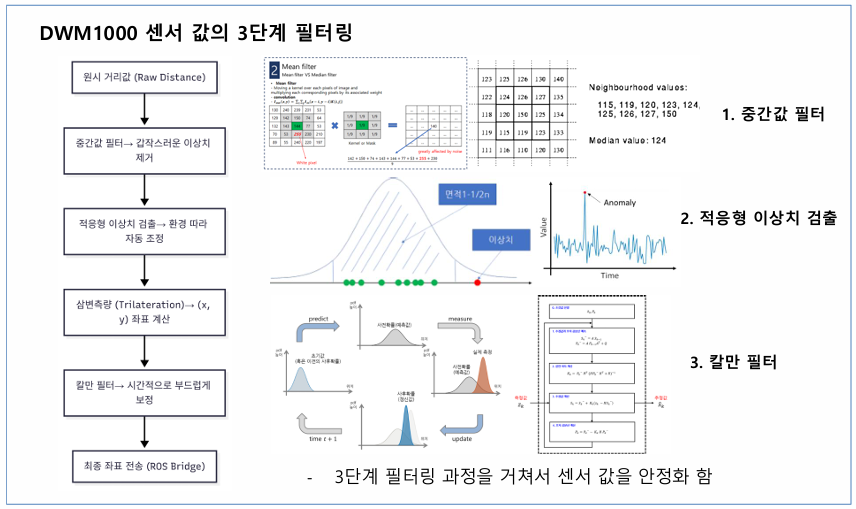
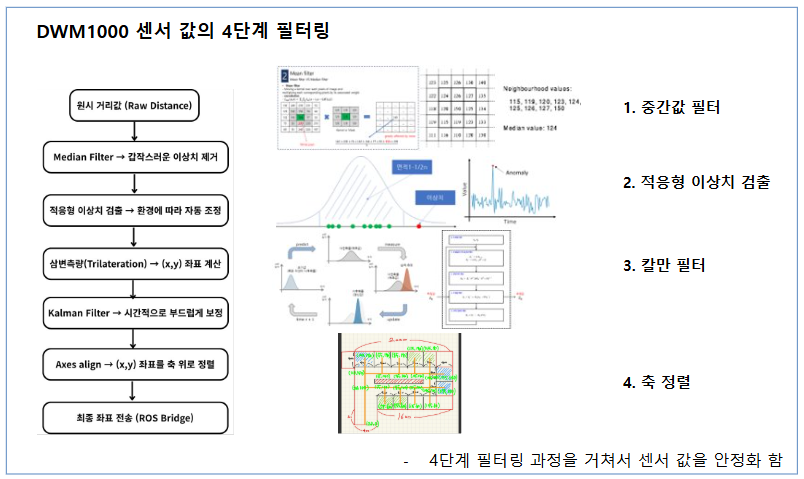
Update README.md

Changed region(s): [[0.0, 0.0, 0.995, 0.9937], [0.8085, 0.6722, 0.9328, 0.7307], [0.3109, 0.6722, 0.342, 0.7015]]

diff --git a/README.md b/README.md
@@ -16,7 +16,7 @@
 
 **1-3. 프로젝트 특장점**
 - UWB와 ESP32 기반 고정밀 위치 추적 (실내 주차장 환경에서도 안정적 측위 가능)
-- 3단계 필터링 알고리즘 적용 (중간값 필터 → 이상치 검출 → 칼만 필터)
+- 4단계 필터링 알고리즘 적용 (중간값 필터 → 이상치 검출 → 칼만 필터 → 축 정렬)
  
   <img width="700" alt="image" src="images\filtering.png" /></br>
 - 스마트 스토퍼를 통한 장애인 전용 주차구역 무단 진입 차단
